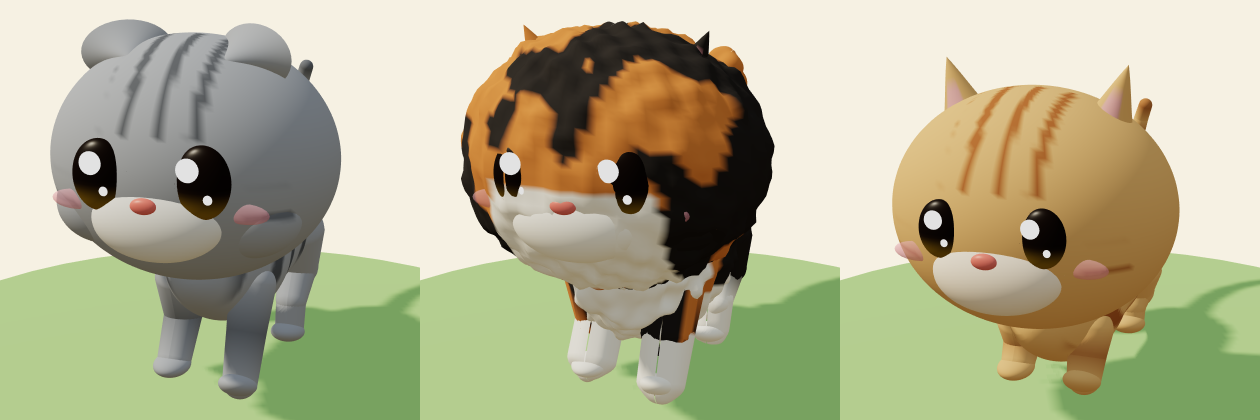
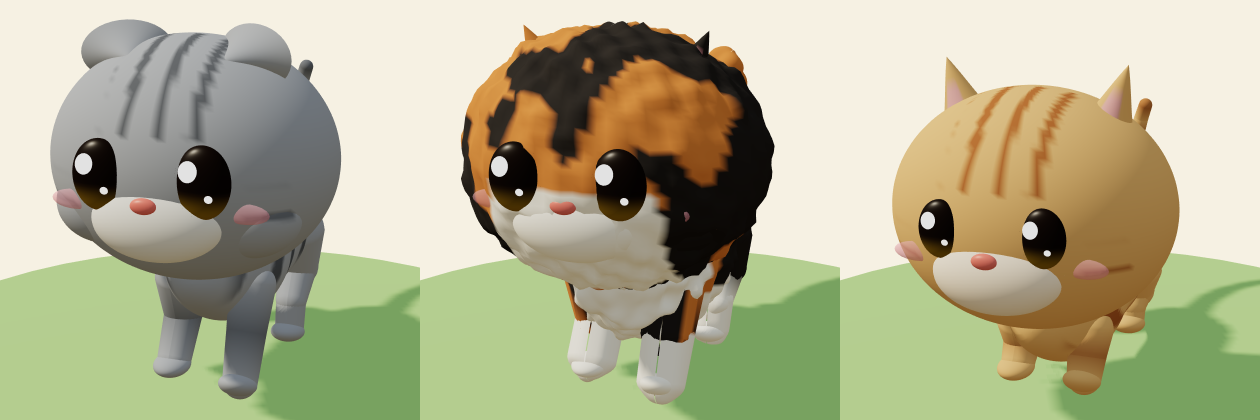
Fix eye highlights seen from the front
- Highlights are flat discs placed on the eye surface (were floating spheres)
  and share one light direction for both eyes (right eye's spilled outside)
- Push eyes forward on long/curly-fur breeds so fur no longer covers them
- Add face.html front close-up check sheet and render

Claude-Session: https://claude.ai/code/session_015vjHDFNeuhZBMk9pB9WgeS

diff --git a/cat-island/prototype/3d/catgen.js b/cat-island/prototype/3d/catgen.js
@@ -337,14 +337,22 @@ export function buildCat(shapeIn, coatSpec) {
     for (const x of [-1, 1]) {
       // big, round, glossy dark eyes; the breed's eye colour only glows softly at the bottom
       const er = HS * .2 * s.eyeSize;
-      const ex = x * HS * .37, ey = HS * .02, ez = HS * (.84 - flat * .05);
-      const ig = ellipsoid(er, s.eyeShape === 'almond' ? .9 : .82, 1.04, .42, 40);
+      const furPush = s.fur === 'curly' ? .07 : s.fur === 'long' ? .045 : 0;      // keep eyes in front of fluffy fur
+      const ex = x * HS * .37, ey = HS * .02, ez = HS * (.84 - flat * .05 + furPush);
+      const sx = s.eyeShape === 'almond' ? .9 : .82, sy = 1.04, sz = .42;
+      const ig = ellipsoid(er, sx, sy, sz, 48);
       ig.translate(ex, ey, ez);
       head.add(mk(ig, 'eye', { cy: ey, er }, MAT_GLOSS));
-      const big = new THREE.Mesh(new THREE.SphereGeometry(er * .34, 16, 12), new THREE.MeshBasicMaterial({ color: '#ffffff' }));
-      big.scale.set(1, 1, .4); big.position.set(ex - x * er * .1 - er * .2, ey + er * .4, ez + er * .4); head.add(big);
-      const small = new THREE.Mesh(new THREE.SphereGeometry(er * .14, 12, 10), new THREE.MeshBasicMaterial({ color: '#ffffff' }));
-      small.scale.set(1, 1, .4); small.position.set(ex + er * .28, ey - er * .38, ez + er * .38); head.add(small);
+      // highlights: flat discs lying on the eye surface, same light direction (upper-left) for both eyes
+      for (const [dx, dy, rr] of [[-.3, .36, .3], [.3, -.36, .12]]) {
+        const hx = dx * er, hy = dy * er;
+        const k = 1 - (hx / (er * sx)) ** 2 - (hy / (er * sy)) ** 2;
+        const hz = ez + er * sz * Math.sqrt(Math.max(0, k)) + er * .015;
+        const disc = new THREE.Mesh(new THREE.CircleGeometry(er * rr, 24), new THREE.MeshBasicMaterial({ color: '#ffffff' }));
+        disc.position.set(ex + hx, ey + hy, hz);
+        disc.lookAt(ex + hx * 1.6, ey + hy * 1.6, hz + er);                    // follow the eye's curvature
+        head.add(disc);
+      }
       const bl = new THREE.Mesh(new THREE.SphereGeometry(HS * .13, 16, 12), new THREE.MeshStandardMaterial({ color: '#f7a3b6', roughness: 1, transparent: true, opacity: .6 }));
       bl.scale.set(1.35, .55, .3); bl.position.set(x * HS * .62, -HS * .2, HS * .72); head.add(bl);
     }

diff --git a/cat-island/prototype/3d/face.html b/cat-island/prototype/3d/face.html
@@ -1,0 +1,27 @@
+<!doctype html>
+<html lang="ko"><head><meta charset="utf-8"><style>body{margin:0;background:#f6f1e3}</style></head><body><div id="w"></div>
+<script type="importmap">{ "imports": { "three": "./node_modules/three/build/three.module.js" } }</script>
+<script type="module">
+import * as THREE from 'three';
+import { buildCat, setPose, BREEDS } from './catgen.js';
+// Front-face close-ups: checks eyes, highlights, nose, mouth at the most critical angle.
+const q = new URLSearchParams(location.search);
+const ids = (q.get('ids') || BREEDS.map(b => b.id).join(',')).split(',');
+const COLS = Math.min(8, ids.length), CW = 210, CH = 210, rows = Math.ceil(ids.length / COLS);
+const r = new THREE.WebGLRenderer({ antialias: true, alpha: true, preserveDrawingBuffer: true });
+r.setPixelRatio(2); r.setSize(COLS * CW, rows * CH); r.outputColorSpace = THREE.SRGBColorSpace; r.toneMapping = THREE.ACESFilmicToneMapping; r.setScissorTest(true);
+w.appendChild(r.domElement);
+ids.forEach((id, i) => {
+  const b = BREEDS.find(x => x.id === id);
+  const scene = new THREE.Scene();
+  scene.add(new THREE.HemisphereLight('#f2fbff', '#c9b892', 1.35));
+  const sun = new THREE.DirectionalLight('#fff4dc', 2); sun.position.set(-3, 6, 5); scene.add(sun);
+  const cat = buildCat(b.shape, b.coat); setPose(cat, 'stand', 0); scene.add(cat);
+  cat.updateMatrixWorld(true);
+  const hp = new THREE.Vector3(); cat.userData.rig.head.getWorldPosition(hp);
+  const cam = new THREE.PerspectiveCamera(20, 1, .1, 50); cam.position.set(hp.x, hp.y + .1, hp.z + 4.2 * (b.shape.size || 1)); cam.lookAt(hp);
+  const x = (i % COLS) * CW, y = (rows - 1 - Math.floor(i / COLS)) * CH;
+  r.setViewport(x, y, CW, CH); r.setScissor(x, y, CW, CH); r.render(scene, cam);
+});
+window.__done = true;
+</script></body></html>

diff --git a/cat-island/docs/CAT_CATALOG.md b/cat-island/docs/CAT_CATALOG.md
@@ -15,9 +15,12 @@
 ![털 무늬 프리셋](images/coats_3d.png)
 ![걷기 동작](images/walk_cycle.png)
 ![얼굴 클로즈업](images/hero_cats.png)
+![정면 얼굴 32종](images/faces_front.png)
 
 **얼굴 원칙 (동물의 숲 스타일):**
 - 눈은 크고 동그란 까만 유광 눈에 큰 하이라이트와 작은 하이라이트를 넣는다.
+- 하이라이트는 눈 표면에 붙은 납작한 원이고, 두 눈 모두 같은 빛 방향(왼쪽 위)에 놓는다.
+- 장모와 곱슬 품종은 털이 눈을 덮지 않도록 눈을 앞으로 뺀다.
 - 품종별 눈 색은 눈 아래쪽에 은은하게만 비친다. 세로 동공과 사실적인 홍채는 쓰지 않는다.
 - 작은 ω 입과 볼터치를 넣는다.
 - 머리 대 몸 비율을 키운 아기자기한 비율(머리 1.5배, 다리 0.8배)을 쓰되, 네 발 보행 구조는 유지한다.
@@ -132,6 +135,8 @@ python3 -m http.server 8765
 #   http://localhost:8765/catalog.html?mode=breeds   품종 프리셋
 #   http://localhost:8765/catalog.html?mode=coats    털 무늬 프리셋
 #   http://localhost:8765/walk.html?id=scottish_fold 걷기 동작 8프레임
+#   http://localhost:8765/face.html                   전 품종 정면 얼굴 점검
+#   http://localhost:8765/inspect.html?ids=a,b        다각도 점검 (정면·대각·측면·뒷면·위)
 #   http://localhost:8765/village.html               마을 그래픽 시안
 # 이미지로 저장 (Playwright 필요)
 python3 render.py out.png "catalog.html?mode=breeds"   # 기본 포트 8766
